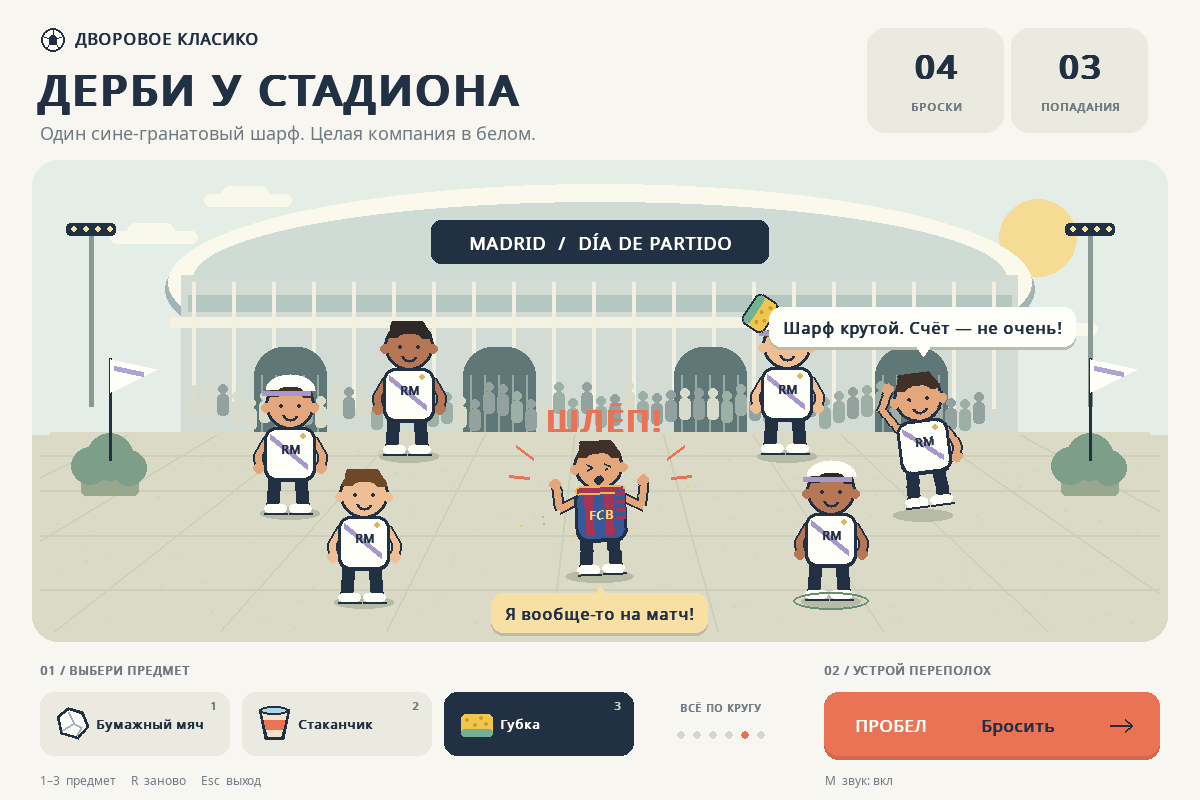
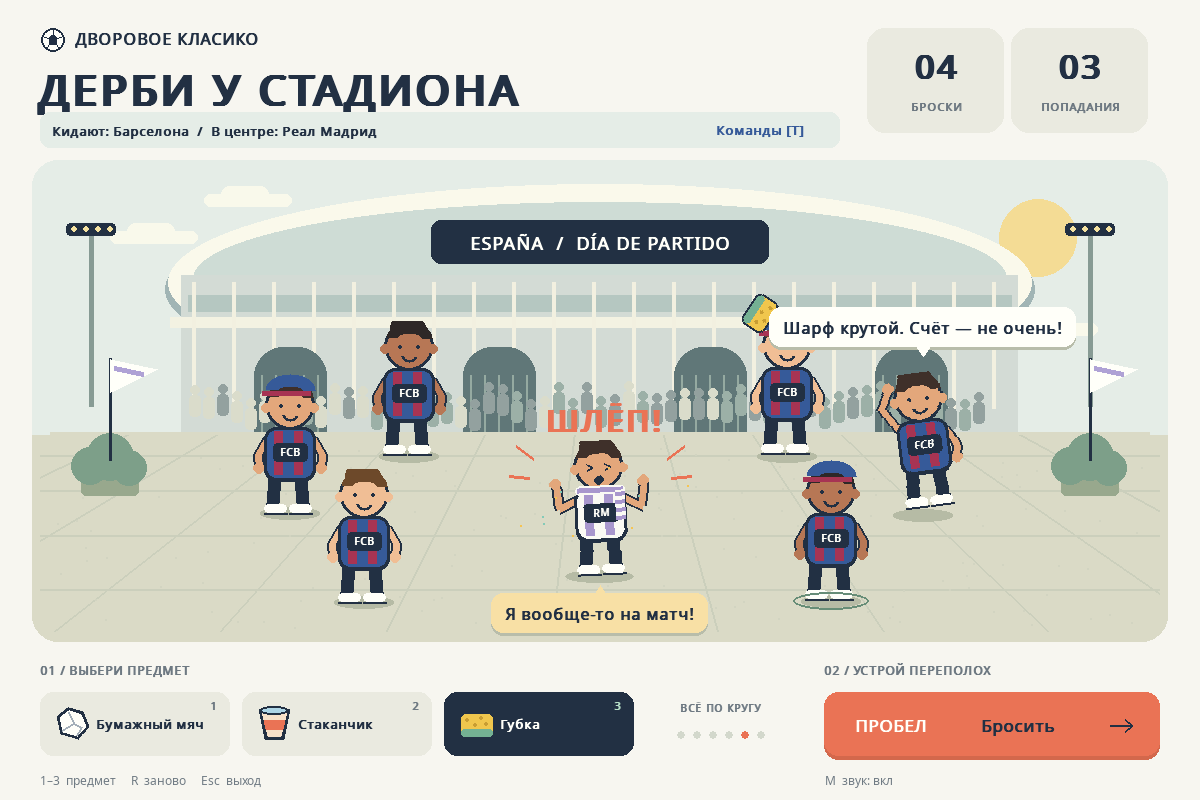
Add Spanish club selection for both fan sides

diff --git a/game.py b/game.py
@@ -11,7 +11,7 @@ import sys
 os.environ.setdefault("PYGAME_HIDE_SUPPORT_PROMPT", "1")
 import pygame
 
-from model import FANS, ITEMS, GameState
+from model import CLUBS, FANS, ITEMS, GameState
 
 
 WIDTH, HEIGHT = 1200, 800
@@ -24,6 +24,11 @@ CORAL = (234, 115, 85)
 BLUE = (54, 90, 153)
 MAROON = (167, 52, 83)
 BUTTON = pygame.Rect(824, 692, 336, 64)
+TEAM_BUTTON = pygame.Rect(40, 112, 800, 36)
+TEAM_DONE = pygame.Rect(450, 697, 300, 48)
+TEAM_CHOICES = [(role, i, pygame.Rect(x, 175 + i * 49, 420, 43))
+                for role, x in (("throwers", 160), ("target", 620))
+                for i in range(len(CLUBS))]
 ITEM_RECTS = [pygame.Rect(40 + i * 202, 692, 190, 64) for i in range(3)]
 
 
@@ -131,6 +136,7 @@ class Game:
         self.state = GameState(seed)
         self.sound = Sound()
         self.running = True
+        self.team_menu = False
         self.background = self.make_background()
 
     def make_background(self):
@@ -158,7 +164,7 @@ class Game:
         for x in range(193, 1000, 40):
             line(surface, (242, 240, 224), (x, 282), (x, 408), 4)
         round_rect(surface, INK, (431, 220, 338, 44), 10)
-        self.text.draw(surface, "MADRID  /  DÍA DE PARTIDO", (600, 242), 18, WHITE, True, True)
+        self.text.draw(surface, "ESPAÑA  /  DÍA DE PARTIDO", (600, 242), 18, WHITE, True, True)
         for x in (254, 463, 674, 875):
             round_rect(surface, (96, 119, 120), (x, 347, 73, 87), 29)
             pygame.draw.rect(surface, (96, 119, 120), (x, 386, 73, 48))
@@ -222,15 +228,12 @@ class Game:
             pygame.draw.lines(sprite, skin, False, [shoulder, elbow, hand], 7)
             pygame.draw.circle(sprite, skin, hand, 6)
         round_rect(sprite, INK, (34, 62, 52, 55), 12)
-        round_rect(sprite, BLUE if hero else WHITE, (37, 65, 46, 48), 9)
-        if hero:
-            for sx in (44, 64):
-                pygame.draw.rect(sprite, MAROON, (sx, 66, 9, 44))
-            self.text.draw(sprite, "FCB", (60, 89), 12, (255, 223, 112), True, True)
-        else:
-            line(sprite, (168, 151, 205), (40, 71), (77, 101), 6)
-            self.text.draw(sprite, "RM", (61, 84), 12, INK, True, True)
-            pygame.draw.circle(sprite, (218, 183, 99), (73, 71), 3)
+        club = CLUBS[state.target if hero else state.throwers]
+        round_rect(sprite, club.primary, (37, 65, 46, 48), 9)
+        for sx in (44, 64):
+            pygame.draw.rect(sprite, club.secondary, (sx, 66, 9, 44))
+        round_rect(sprite, INK, (43, 78, 35, 19), 4)
+        self.text.draw(sprite, club.badge, (60, 87), 10, WHITE, True, True)
         pygame.draw.circle(sprite, INK, (60, 40), 25)
         pygame.draw.circle(sprite, skin, (60, 40), 22)
         pygame.draw.circle(sprite, skin, (36, 43), 5)
@@ -246,17 +249,17 @@ class Game:
                 pygame.draw.circle(sprite, INK, (ex, 41), 2)
             pygame.draw.arc(sprite, INK, (52, 44, 17, 12), math.pi, math.tau, 2)
         if hero:
-            # The unmistakable blue-and-garnet scarf.
-            round_rect(sprite, (236, 183, 91), (35, 60, 50, 9), 4)
-            pygame.draw.rect(sprite, MAROON, (37, 62, 46, 5))
-            pygame.draw.rect(sprite, BLUE, (75, 65, 10, 30))
+            # Scarf follows the selected club colors.
+            round_rect(sprite, club.primary, (35, 60, 50, 9), 4)
+            pygame.draw.rect(sprite, club.secondary, (37, 62, 46, 5))
+            pygame.draw.rect(sprite, club.primary, (75, 65, 10, 30))
             for sy in range(67, 94, 8):
-                pygame.draw.rect(sprite, MAROON, (75, sy, 10, 4))
+                pygame.draw.rect(sprite, club.secondary, (75, sy, 10, 4))
         else:
             # Caps in white and purple, different on each fan.
             if index % 2 == 0:
-                pygame.draw.arc(sprite, WHITE, (35, 9, 50, 33), 0, math.pi, 12)
-                line(sprite, (168, 151, 205), (32, 28), (80, 28), 5)
+                pygame.draw.arc(sprite, club.primary, (35, 9, 50, 33), 0, math.pi, 12)
+                line(sprite, club.secondary, (32, 28), (80, 28), 5)
         shadow_width = 69 if hero else 60
         pygame.draw.ellipse(self.canvas, (182, 187, 165), (x-shadow_width/2, y-5, shadow_width, 13))
         angle = math.sin(state.time*44) * state.reaction * 16 if reacting else 0
@@ -288,7 +291,10 @@ class Game:
         ball(self.canvas, (53, 40), 12)
         self.text.draw(self.canvas, "ДВОРОВОЕ КЛАСИКО", (75, 27), 16, INK, True)
         self.text.draw(self.canvas, "ДЕРБИ У СТАДИОНА", (37, 60), 43, INK, True)
-        self.text.draw(self.canvas, "Один сине-гранатовый шарф. Целая компания в белом.", (40, 120), 18, MUTED)
+        round_rect(self.canvas, (229, 237, 231), TEAM_BUTTON, 10)
+        matchup = f"Кидают: {CLUBS[state.throwers].name}  /  В центре: {CLUBS[state.target].name}"
+        self.text.draw(self.canvas, matchup, (52, 122), 13, INK, True)
+        self.text.draw(self.canvas, "Команды [T]", (716, 121), 13, BLUE, True)
         for x, value, caption in [(936, f"{state.throws:02}", "БРОСКИ"), (1080, f"{state.hits:02}", "ПОПАДАНИЯ")]:
             round_rect(self.canvas, (234, 234, 224), (x-69, 28, 137, 105), 18)
             self.text.draw(self.canvas, value, (x, 65), 33, INK, True, True)
@@ -347,7 +353,30 @@ class Game:
         self.text.draw(self.canvas, "1–3  предмет     R  заново     Esc  выход", (40, 772), 12, MUTED)
         sound_label = "нет аудиоустройства" if not self.sound.available else ("вкл" if self.sound.enabled else "выкл")
         self.text.draw(self.canvas, f"M  звук: {sound_label}", (825, 772), 12, MUTED)
+        if self.team_menu:
+            self.draw_team_menu()
         self.present()
+
+    def draw_team_menu(self):
+        shade = pygame.Surface((WIDTH, HEIGHT), pygame.SRCALPHA)
+        shade.fill((20, 30, 40, 180))
+        self.canvas.blit(shade, (0, 0))
+        round_rect(self.canvas, PAPER, (120, 44, 960, 720), 24)
+        self.text.draw(self.canvas, "ВЫБЕРИ КОМАНДЫ", (600, 80), 30, INK, True, True)
+        self.text.draw(self.canvas, "КТО КИДАЕТ", (370, 137), 18, INK, True, True)
+        self.text.draw(self.canvas, "ФАНАТ В ЦЕНТРЕ", (830, 137), 18, INK, True, True)
+        for role, index, rect in TEAM_CHOICES:
+            club = CLUBS[index]
+            selected = getattr(self.state, role) == index
+            round_rect(self.canvas, INK if selected else (234, 234, 224), rect, 9)
+            round_rect(self.canvas, club.primary, (rect.x+12, rect.y+10, 24, 24), 5)
+            pygame.draw.rect(self.canvas, club.secondary, (rect.x+22, rect.y+10, 7, 24))
+            self.text.draw(self.canvas, club.name, (rect.x+48, rect.y+10), 17, WHITE if selected else INK, selected)
+            if selected:
+                pygame.draw.lines(self.canvas, MINT, False, [(rect.right-29, rect.y+22), (rect.right-24, rect.y+27), (rect.right-15, rect.y+16)], 3)
+        self.text.draw(self.canvas, "Один клуб на обеих сторонах? Команды поменяются местами.", (600, 677), 14, MUTED, center=True)
+        round_rect(self.canvas, CORAL, TEAM_DONE, 12)
+        self.text.draw(self.canvas, "ИГРАТЬ  /  Enter", TEAM_DONE.center, 18, INK, True, True)
 
     def viewport(self):
         width, height = self.window.get_size()
@@ -377,6 +406,13 @@ class Game:
         if event.type == pygame.QUIT:
             self.running = False
         elif event.type == pygame.KEYDOWN:
+            if event.key == pygame.K_t:
+                self.team_menu = not self.team_menu
+                return
+            if self.team_menu:
+                if event.key in (pygame.K_ESCAPE, pygame.K_RETURN):
+                    self.team_menu = False
+                return
             if event.key == pygame.K_ESCAPE:
                 self.running = False
             elif event.key == pygame.K_SPACE:
@@ -389,6 +425,17 @@ class Game:
                 self.sound.toggle()
         elif event.type == pygame.MOUSEBUTTONDOWN and event.button == 1:
             pos = self.logical_mouse(event.pos)
+            if self.team_menu:
+                if TEAM_DONE.collidepoint(pos):
+                    self.team_menu = False
+                else:
+                    for role, index, rect in TEAM_CHOICES:
+                        if rect.collidepoint(pos):
+                            self.state.choose_club(role, index)
+                return
+            if TEAM_BUTTON.collidepoint(pos):
+                self.team_menu = True
+                return
             if BUTTON.collidepoint(pos):
                 self.throw()
             for i, rect in enumerate(ITEM_RECTS):
@@ -400,7 +447,7 @@ class Game:
     def step(self, dt):
         for event in pygame.event.get():
             self.handle_event(event)
-        if self.state.update(dt):
+        if not self.team_menu and self.state.update(dt):
             self.sound.play("hit")
         self.draw()
 

diff --git a/model.py b/model.py
@@ -8,15 +8,35 @@ import random
 FANS = ((290, 512), (409, 455), (787, 455), (923, 514), (831, 600), (364, 601))
 TARGET = (600, 501)
 ITEMS = ("Бумажный мяч", "Стаканчик", "Губка")
-TAUNTS = (
-    "Тики-така? Лови стакан!",
-    "Камп Ноу в другой стороне!",
-    "Эй, растяпа, лови!",
-    "Барса, где твоя защита?",
-    "Шарф крутой. Счёт — не очень!",
-    "Мадрид передаёт привет!",
+@dataclass(frozen=True)
+class Club:
+    name: str
+    badge: str
+    primary: tuple[int, int, int]
+    secondary: tuple[int, int, int]
+
+
+CLUBS = (
+    Club("Барселона", "FCB", (54, 90, 153), (167, 52, 83)),
+    Club("Реал Мадрид", "RM", (250, 250, 244), (168, 151, 205)),
+    Club("Атлетико Мадрид", "ATM", (225, 58, 65), (250, 250, 244)),
+    Club("Севилья", "SEV", (250, 250, 244), (206, 45, 58)),
+    Club("Реал Бетис", "BET", (36, 151, 91), (250, 250, 244)),
+    Club("Валенсия", "VAL", (250, 250, 244), (235, 130, 47)),
+    Club("Вильярреал", "VIL", (246, 216, 62), (62, 92, 158)),
+    Club("Атлетик Бильбао", "ATH", (212, 52, 59), (250, 250, 244)),
+    Club("Реал Сосьедад", "RSO", (54, 111, 186), (250, 250, 244)),
+    Club("Жирона", "GIR", (218, 53, 65), (250, 250, 244)),
 )
-REPLIES = ("Зато у нас тики-така!", "Судья! Это фол!", "Я вообще-то на матч!", "Ещё увидимся в класико!")
+TAUNTS = (
+    "Эй, лови стакан!",
+    "{target}, где твоя защита?",
+    "Эй, растяпа, лови!",
+    "{throwers} передаёт привет!",
+    "Шарф крутой. Счёт — не очень!",
+    "До встречи на поле!",
+)
+REPLIES = ("Наши ещё покажут!", "Судья! Это фол!", "Я вообще-то на матч!", "Ещё увидимся на поле!")
 
 
 @dataclass
@@ -55,6 +75,8 @@ class GameState:
 
     def __init__(self, seed=None):
         self.rng = random.Random(seed)
+        self.throwers = 0
+        self.target = 1
         self.reset()
 
     def reset(self):
@@ -74,6 +96,19 @@ class GameState:
         self.reply_time = 0.0
         self.last_kind = 0
 
+    def choose_club(self, role, index):
+        """Change a side, swapping opponents if necessary, and start a fresh round."""
+        if role not in ("throwers", "target") or index not in range(len(CLUBS)):
+            return False
+        if getattr(self, role) == index:
+            return False
+        other = "target" if role == "throwers" else "throwers"
+        if getattr(self, other) == index:
+            setattr(self, other, getattr(self, role))
+        setattr(self, role, index)
+        self.reset()
+        return True
+
     def select(self, kind):
         if kind in range(len(ITEMS)):
             self.selected = kind
@@ -92,6 +127,7 @@ class GameState:
         ))
         self.poses[self.speaker] = 0.5
         self.bubble = TAUNTS[0] if self.selected == 1 else self.rng.choice(TAUNTS[1:])
+        self.bubble = self.bubble.format(target=CLUBS[self.target].name, throwers=CLUBS[self.throwers].name)
         self.bubble_time = 2.4
         self.throws += 1
         self.cooldown = self.cooldown_seconds

diff --git a/tests/test_teams.py b/tests/test_teams.py
@@ -1,0 +1,73 @@
+"""Team selection and resized mouse interaction checks."""
+import os
+os.environ.setdefault('SDL_VIDEODRIVER', 'dummy')
+os.environ.setdefault('SDL_AUDIODRIVER', 'dummy')
+import unittest
+import pygame
+from model import CLUBS, GameState
+from game import Game, TEAM_BUTTON, TEAM_CHOICES, WIDTH, HEIGHT
+
+
+class TeamTests(unittest.TestCase):
+    def test_defaults_and_reset_preserve_selected_sides(self):
+        state = GameState()
+        self.assertEqual((CLUBS[state.throwers].name, CLUBS[state.target].name),
+                         ('Барселона', 'Реал Мадрид'))
+        state.choose_club('target', 4)
+        state.throw()
+        state.reset()
+        self.assertEqual((state.throwers, state.target), (0, 4))
+        self.assertEqual(state.throws, 0)
+
+    def test_selecting_opponent_swaps_and_clears_inflight_round(self):
+        state = GameState()
+        state.throw()
+        self.assertTrue(state.choose_club('target', 0))
+        self.assertEqual((state.throwers, state.target), (1, 0))
+        self.assertFalse(state.projectiles)
+        self.assertEqual(state.throws, 0)
+        self.assertFalse(state.choose_club('target', 0))
+        self.assertFalse(state.choose_club('target', 99))
+        self.assertFalse(state.choose_club('unknown', 2))
+
+    def test_all_clubs_can_be_selected_for_either_side(self):
+        state = GameState()
+        for role in ('throwers', 'target'):
+            for i in range(len(CLUBS)):
+                state.choose_club(role, i)
+                self.assertEqual(getattr(state, role), i)
+                self.assertNotEqual(state.throwers, state.target)
+                self.assertTrue(state.throw())
+                self.assertNotIn('{', state.bubble)
+                state.update(1)
+
+    def test_menu_clicks_after_resize_pause_and_return_to_game(self):
+        game = Game(seed=42)
+        try:
+            game.handle_event(pygame.event.Event(pygame.VIDEORESIZE, w=900, h=680))
+            def click(rect):
+                size, offset = game.viewport()
+                pos = (offset[0]+rect.centerx*size[0]/WIDTH,
+                       offset[1]+rect.centery*size[1]/HEIGHT)
+                game.handle_event(pygame.event.Event(pygame.MOUSEBUTTONDOWN, button=1, pos=pos))
+            click(TEAM_BUTTON)
+            self.assertTrue(game.team_menu)
+            game.handle_event(pygame.event.Event(pygame.KEYDOWN, key=pygame.K_SPACE))
+            game.step(.1)
+            self.assertEqual(game.state.throws, 0)
+            self.assertEqual(game.state.time, 0)
+            for role, index, rect in TEAM_CHOICES:
+                click(rect)
+                self.assertEqual(getattr(game.state, role), index)
+                game.draw()
+            game.handle_event(pygame.event.Event(pygame.KEYDOWN, key=pygame.K_ESCAPE))
+            self.assertFalse(game.team_menu)
+            self.assertTrue(game.running)
+            game.handle_event(pygame.event.Event(pygame.KEYDOWN, key=pygame.K_SPACE))
+            self.assertEqual(game.state.throws, 1)
+        finally:
+            pygame.quit()
+
+
+if __name__ == '__main__':
+    unittest.main()

diff --git a/README.md b/README.md
@@ -1,6 +1,6 @@
 # Дерби у стадиона
 
-Небольшая настольная игра на Python и Pygame. Фанат «Барселоны» стоит у стадиона, а вокруг него — фанаты «Реал Мадрид». Нажмите пробел, чтобы запустить мультяшный бросок бумажного мяча, стаканчика или губки с футбольным подколом.
+Небольшая настольная игра на Python и Pygame. По умолчанию фанат «Реала» стоит у стадиона, а вокруг него — фанаты «Барселоны». Обе команды можно поменять кнопкой «Команды» или клавишей T. Нажмите пробел, чтобы запустить мультяшный бросок бумажного мяча, стаканчика или губки с футбольным подколом.
 
 Вся графика рисуется кодом, а звуки синтезируются при запуске. Внешние изображения и аудиофайлы не нужны.
 
@@ -76,9 +76,13 @@ py -3 -m venv .venv
 | --- | --- |
 | Пробел или кнопка броска на экране | Запустить бросок и анимацию |
 | `1`, `2`, `3` | Выбрать бумажный мяч, стаканчик или губку |
-| `R` | Сбросить игру |
+| `T` или «Команды» | Выбрать бросающих болельщиков и фаната в центре |
+| `Enter` или `Esc` в выборе команд | Вернуться в игру |
+| `R` | Сбросить раунд, сохранив команды |
 | `M` | Включить или выключить звук |
 | `Esc` | Выйти из игры |
+
+Можно выбрать «Барселону», «Реал Мадрид», «Атлетико Мадрид», «Севилью», «Реал Бетис», «Валенсию», «Вильярреал», «Атлетик Бильбао», «Реал Сосьедад» и «Жирону». Меняются цвета формы, шарфы, подписи и реплики. Смена команды начинает новый раунд; выбор клуба соперника меняет стороны местами. Пока открыто меню, игра приостановлена.
 
 ## Проверки
 
